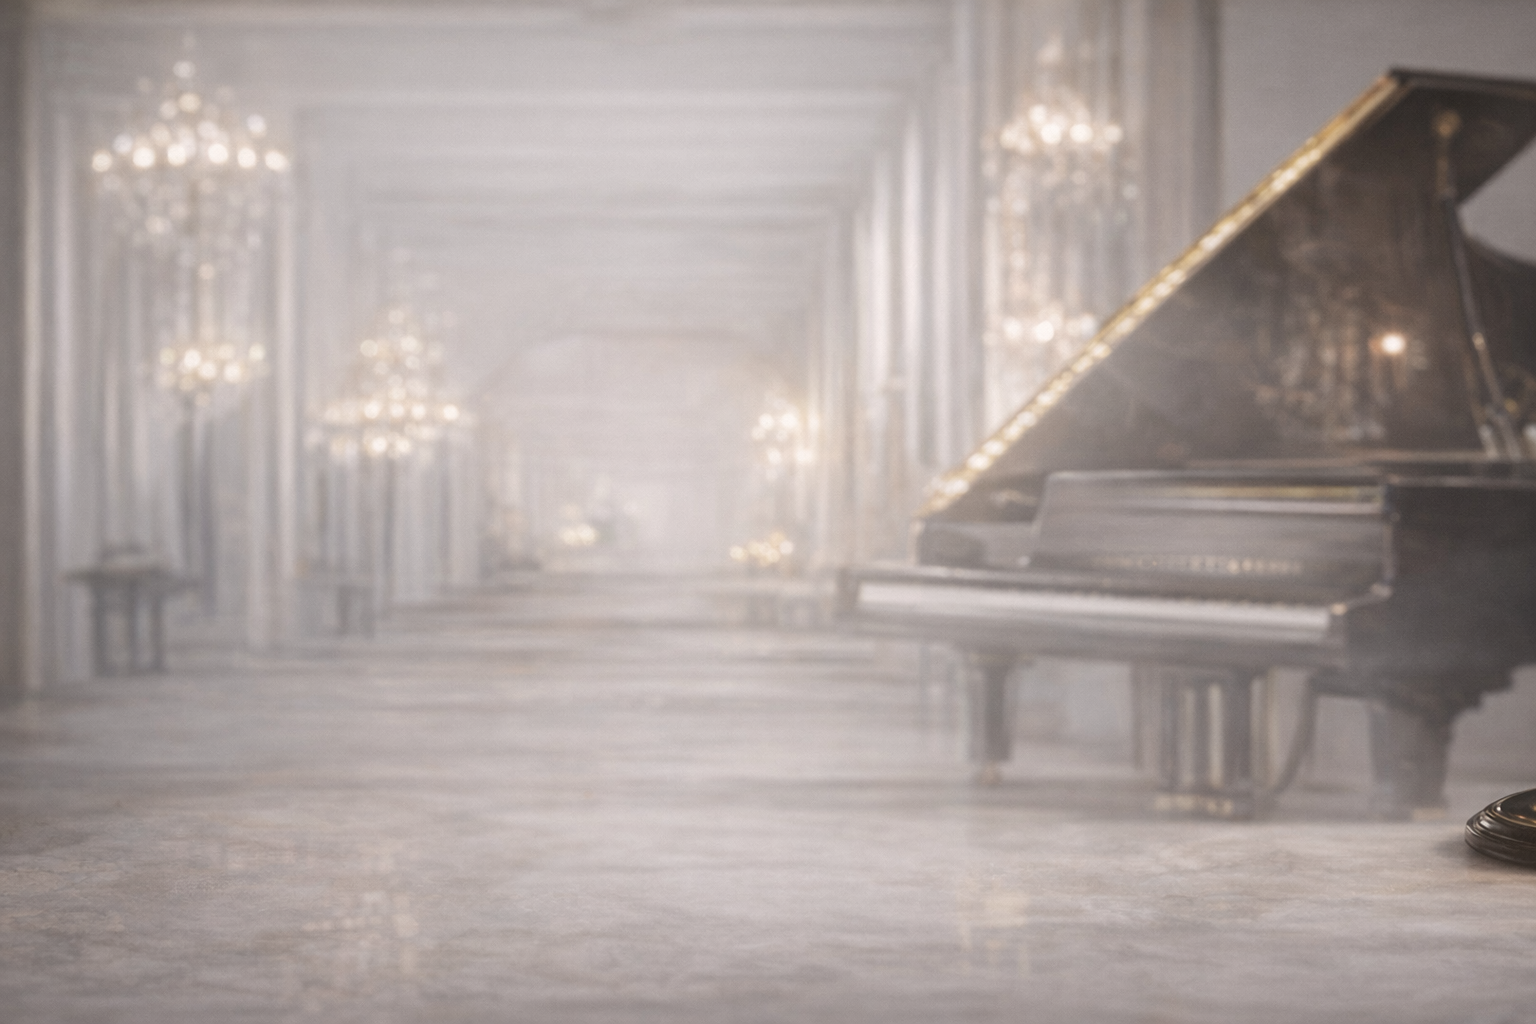
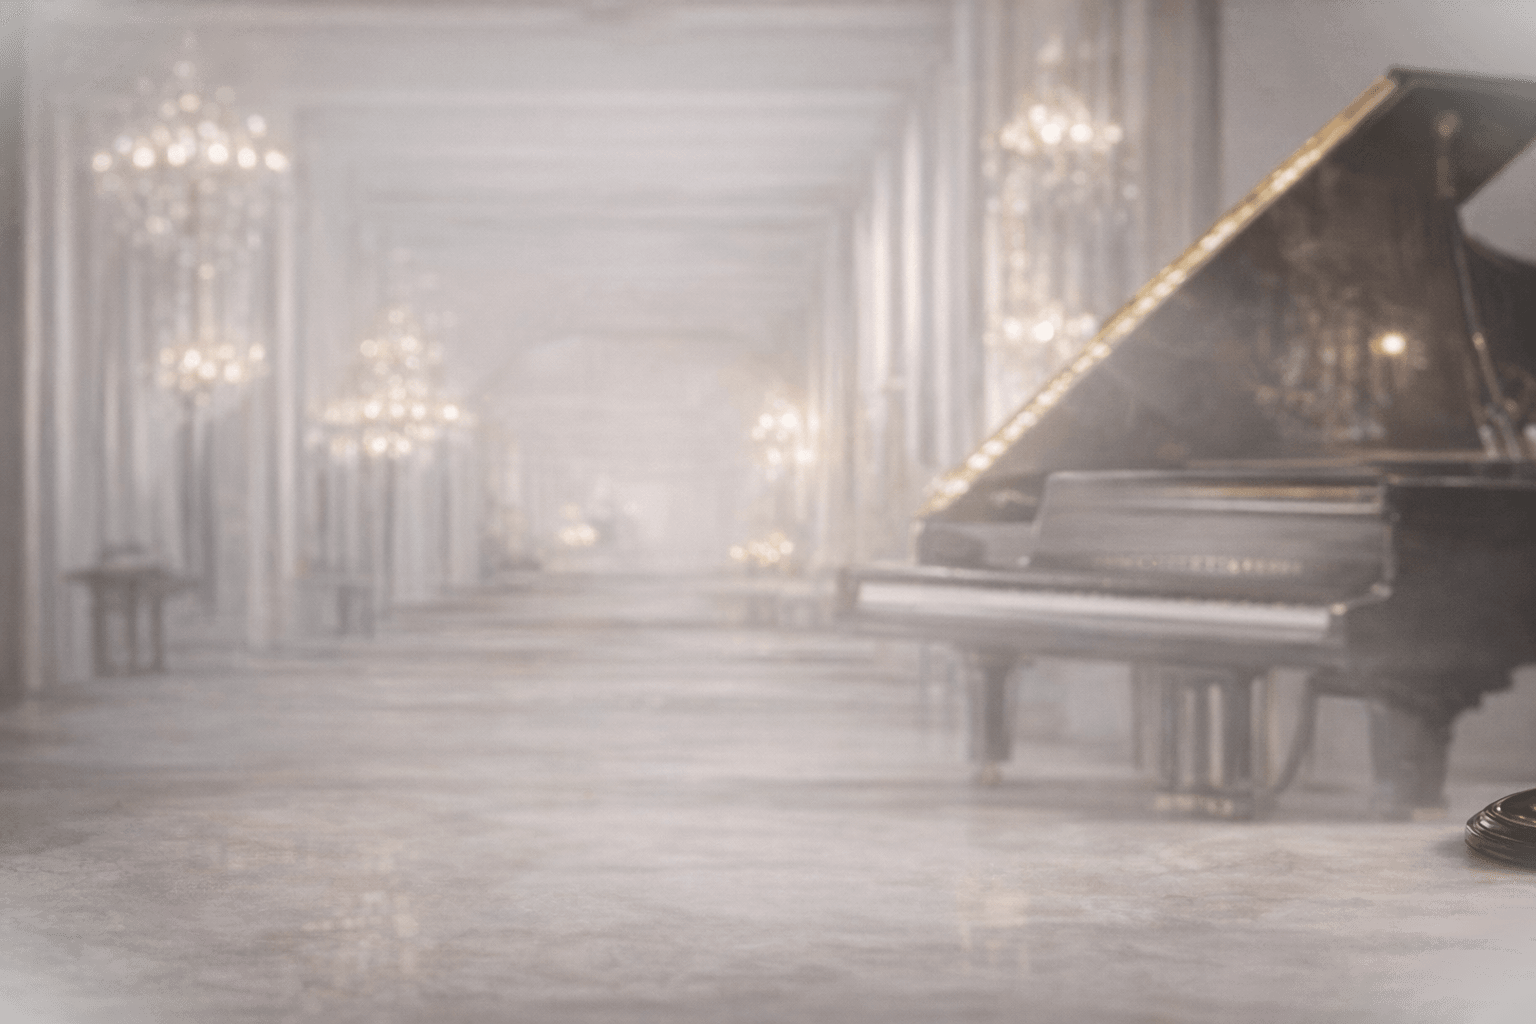
Add white glow effect processing for background images
Implement reusable image processing system for adding white glow/vignette
effects to background images using Sharp.

Features:
- Build-time processing script (scripts/process-images.js)
- JSON configuration for multiple images (config/image-processing.json)
- CLI support for batch or single image processing
- Configurable glow parameters (intensity, radius, blur)
- ES module compatible

Applied white glow to hero-bg.png (reduced from 1.8MB original to 716KB).

Usage:
- npm run process-images (process all)
- npm run process-image <name> (process specific image)

diff --git a/scripts/process-images.js b/scripts/process-images.js
@@ -1,0 +1,192 @@
+#!/usr/bin/env node
+
+import fs from 'fs';
+import path from 'path';
+import { fileURLToPath } from 'url';
+import sharp from 'sharp';
+
+// Get __dirname equivalent in ES modules
+const __filename = fileURLToPath(import.meta.url);
+const __dirname = path.dirname(__filename);
+
+// Paths
+const CONFIG_PATH = path.join(__dirname, '..', 'config', 'image-processing.json');
+const IMAGES_DIR = path.join(__dirname, '..', 'public', 'images');
+
+/**
+ * Generate a radial gradient SVG mask for the glow effect
+ * @param {number} width - Image width
+ * @param {number} height - Image height
+ * @param {number} glowRadius - Glow radius (0.0-1.0)
+ * @param {number} glowIntensity - Glow intensity (0.0-1.0)
+ * @returns {Buffer} SVG buffer
+ */
+function createRadialGradientMask(width, height, glowRadius, glowIntensity) {
+  const gradientSvg = `
+    <svg width="${width}" height="${height}" xmlns="http://www.w3.org/2000/svg">
+      <defs>
+        <radialGradient id="grad" cx="50%" cy="50%" r="70%">
+          <stop offset="${glowRadius * 100}%" stop-color="white" stop-opacity="1"/>
+          <stop offset="100%" stop-color="white" stop-opacity="${1 - glowIntensity}"/>
+        </radialGradient>
+      </defs>
+      <rect width="${width}" height="${height}" fill="url(#grad)"/>
+    </svg>
+  `;
+  return Buffer.from(gradientSvg);
+}
+
+/**
+ * Apply white glow effect to an image
+ * @param {string} inputPath - Path to input image
+ * @param {string} outputPath - Path to output image
+ * @param {object} config - Configuration object
+ */
+async function addWhiteGlow(inputPath, outputPath, config) {
+  try {
+    // Load the original image and get metadata
+    const image = sharp(inputPath);
+    const metadata = await image.metadata();
+    const { width, height } = metadata;
+
+    console.log(`  Image size: ${width}x${height}`);
+
+    // Extract configuration with defaults
+    const glowIntensity = config.glowIntensity || 0.75;
+    const glowRadius = config.glowRadius || 0.82;
+    const blurSigma = config.blurSigma || 85;
+    const quality = config.quality || 90;
+    const compressionLevel = config.compressionLevel || 9;
+
+    console.log(`  Glow parameters: intensity=${glowIntensity}, radius=${glowRadius}, blur=${blurSigma}`);
+
+    // Step 1: Create white canvas
+    const whiteCanvas = await sharp({
+      create: {
+        width,
+        height,
+        channels: 4,
+        background: { r: 255, g: 255, b: 255, alpha: 1 }
+      }
+    }).png().toBuffer();
+
+    // Step 2: Create radial gradient mask
+    const gradientMask = createRadialGradientMask(width, height, glowRadius, glowIntensity);
+
+    // Step 3: Apply Gaussian blur to the mask for soft transition
+    const blurredMask = await sharp(gradientMask)
+      .blur(blurSigma)
+      .toBuffer();
+
+    // Step 4: Composite original image over white canvas
+    // First composite the white canvas with the original
+    const compositeResult = await sharp(whiteCanvas)
+      .composite([
+        {
+          input: inputPath,
+          blend: 'over'
+        }
+      ])
+      .toBuffer();
+
+    // Step 5: Apply the blurred mask to create the glow vignette effect
+    const finalImage = await sharp(compositeResult)
+      .composite([
+        {
+          input: blurredMask,
+          blend: 'dest-in'
+        }
+      ])
+      .png({ quality, compressionLevel })
+      .toFile(outputPath);
+
+    console.log(`  Saved: ${outputPath} (${(finalImage.size / 1024).toFixed(2)} KB)`);
+    return true;
+  } catch (error) {
+    console.error(`  Error processing image: ${error.message}`);
+    return false;
+  }
+}
+
+/**
+ * Process a single image
+ * @param {object} imageConfig - Image configuration
+ * @param {object} defaults - Default configuration
+ * @returns {Promise<boolean>} Success status
+ */
+async function processImage(imageConfig, defaults) {
+  const { name, source, output } = imageConfig;
+  const sourcePath = path.join(IMAGES_DIR, source);
+  const outputPath = path.join(IMAGES_DIR, output);
+
+  console.log(`Processing ${name}...`);
+
+  // Check if source exists
+  if (!fs.existsSync(sourcePath)) {
+    console.error(`  Error: Source file not found: ${sourcePath}`);
+    return false;
+  }
+
+  // Merge config with defaults
+  const config = { ...defaults, ...imageConfig };
+
+  // Process the image
+  return await addWhiteGlow(sourcePath, outputPath, config);
+}
+
+/**
+ * Main function
+ */
+async function main() {
+  console.log('Image Processing Script - White Glow Effect\n');
+
+  // Load configuration
+  if (!fs.existsSync(CONFIG_PATH)) {
+    console.error(`Configuration file not found: ${CONFIG_PATH}`);
+    process.exit(1);
+  }
+
+  const config = JSON.parse(fs.readFileSync(CONFIG_PATH, 'utf-8'));
+  const { defaults, images } = config;
+
+  // Get image name from CLI args (if any)
+  const targetImageName = process.argv[2];
+
+  // Filter images to process
+  let imagesToProcess = images;
+  if (targetImageName) {
+    imagesToProcess = images.filter(img => img.name === targetImageName);
+    if (imagesToProcess.length === 0) {
+      console.error(`No image found with name: ${targetImageName}`);
+      console.log(`Available images: ${images.map(img => img.name).join(', ')}`);
+      process.exit(1);
+    }
+  }
+
+  // Process images
+  let successCount = 0;
+  let failCount = 0;
+
+  for (const imageConfig of imagesToProcess) {
+    const success = await processImage(imageConfig, defaults);
+    if (success) {
+      successCount++;
+    } else {
+      failCount++;
+    }
+    console.log('');
+  }
+
+  // Summary
+  console.log(`Processing complete: ${successCount} succeeded, ${failCount} failed`);
+
+  if (failCount > 0) {
+    process.exit(1);
+  }
+}
+
+// Run main function
+main().catch(error => {
+  console.error('Fatal error:', error);
+  process.exit(1);
+});
